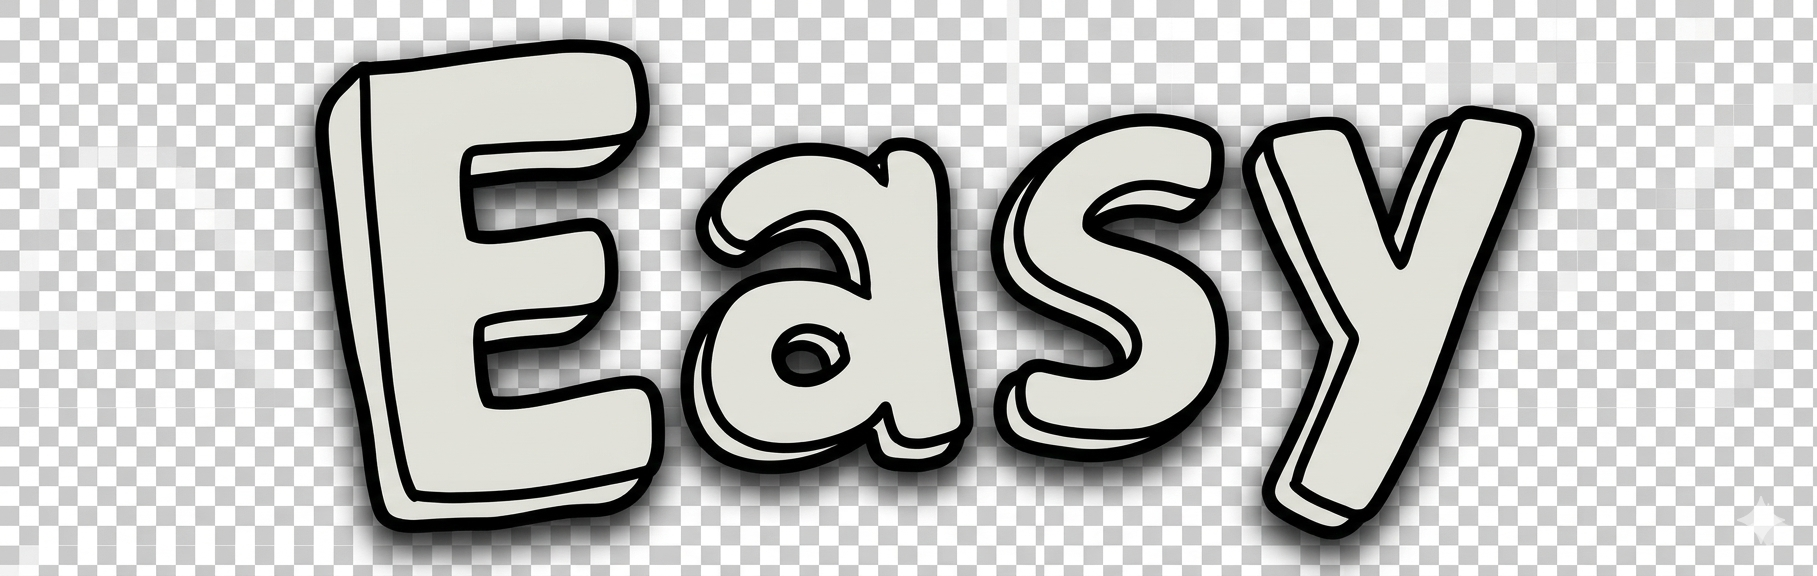
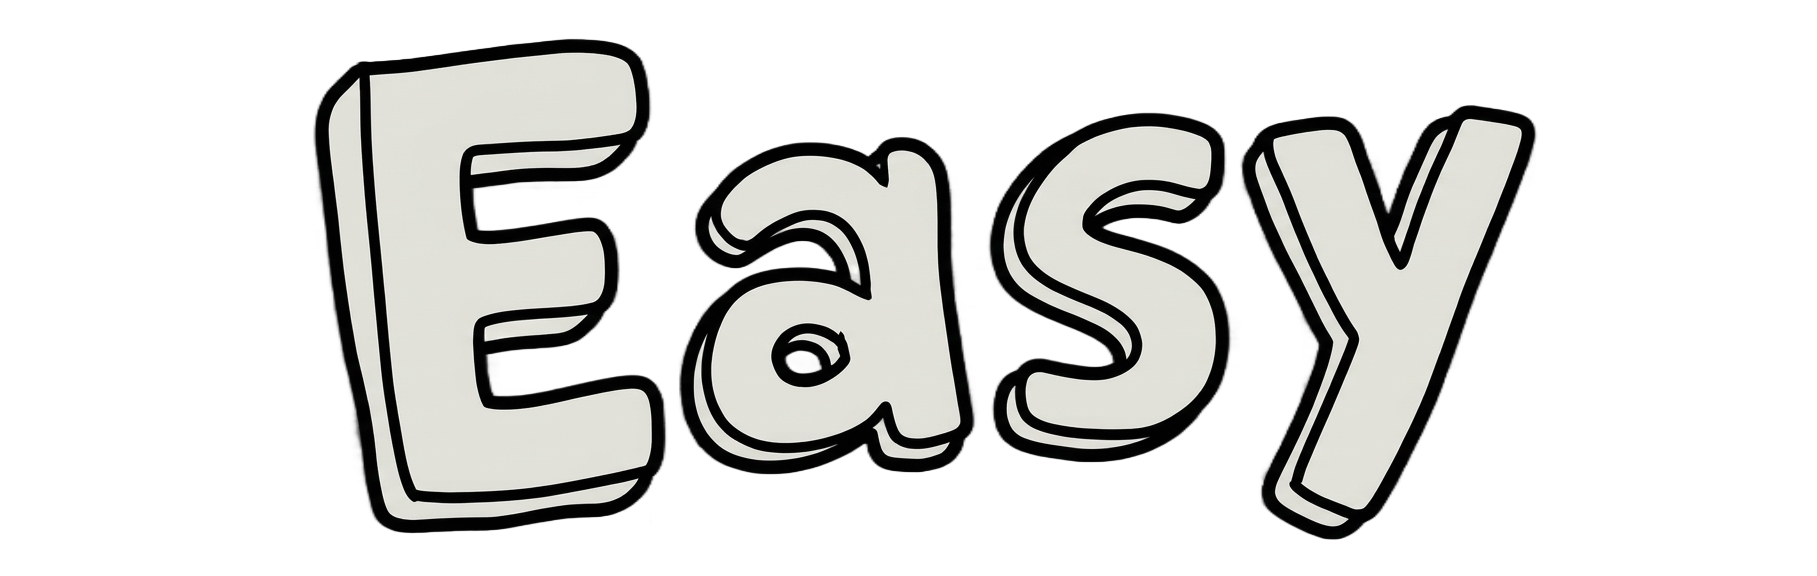
Update: Removing checkered background

diff --git a/HangmanProject/gui.py b/HangmanProject/gui.py
@@ -126,7 +126,7 @@ class HangmanApp:
         self._photo_refs = []
 
         # Load all assets once
-        assets_dir = os.path.join(os.path.dirname(__file__), "assets")
+        assets_dir = os.path.join(os.path.dirname(__file__), "..", "assets")
         self.sprite_loader = SpriteLoader(assets_dir)
 
         self._show_main_menu()
@@ -151,7 +151,7 @@ class HangmanApp:
             self._photo_refs.append(bg)
 
         # Title — Regular_Game.png
-        title_photo = self.sprite_loader.get_button("RegularGame", width=500)
+        title_photo = self.sprite_loader.get_button("Regular_Game", width=500)
         if title_photo:
             canvas.create_image(400, 110, anchor=tk.CENTER, image=title_photo)
             self._photo_refs.append(title_photo)
@@ -163,13 +163,13 @@ class HangmanApp:
         btn_data = [
             ("New_Game",          320, self._show_difficulty_screen),
             ("Change_Difficulty", 410, self._show_difficulty_screen),
-            ("Exit_Game",         490, self.master.quit),
+            ("Exit_Game",         500, self.master.quit),
         ]
         for key, y, cmd in btn_data:
             photo = self.sprite_loader.get_button(key, width=280)
             if photo:
-                lbl = tk.Label(canvas, image=photo, bg="", cursor="hand2",
-                               borderwidth=0, highlightthickness=0)
+                lbl = tk.Label(canvas, image=photo, bg="#000000", cursor="hand2",
+                                borderwidth=0, highlightthickness=0)
                 lbl.image = photo  # keep ref
                 lbl.bind("<Button-1>", lambda e, c=cmd: c())
                 canvas.create_window(400, y, window=lbl)
@@ -217,7 +217,7 @@ class HangmanApp:
         for key, diff, y in diff_data:
             photo = self.sprite_loader.get_button(key, width=220)
             if photo:
-                lbl = tk.Label(canvas, image=photo, bg="", cursor="hand2",
+                lbl = tk.Label(canvas, image=photo, bg="#0f0f0f", cursor="hand2",
                                borderwidth=0, highlightthickness=0)
                 lbl.image = photo
                 lbl.bind("<Button-1>", lambda e, d=diff: self._start_game(d))
@@ -232,7 +232,7 @@ class HangmanApp:
         # Back button
         back_photo = self.sprite_loader.get_button("Back", width=140)
         if back_photo:
-            lbl = tk.Label(canvas, image=back_photo, bg="", cursor="hand2",
+            lbl = tk.Label(canvas, image=back_photo, bg="#0f0f0f", cursor="hand2",
                            borderwidth=0, highlightthickness=0)
             lbl.image = back_photo
             lbl.bind("<Button-1>", lambda e: self._show_main_menu())
